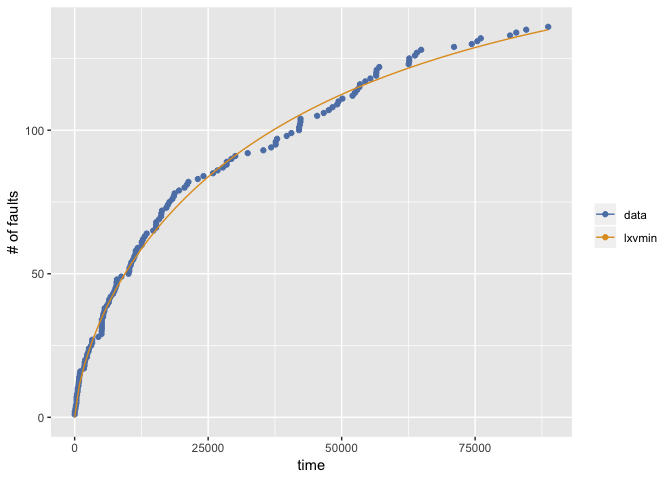
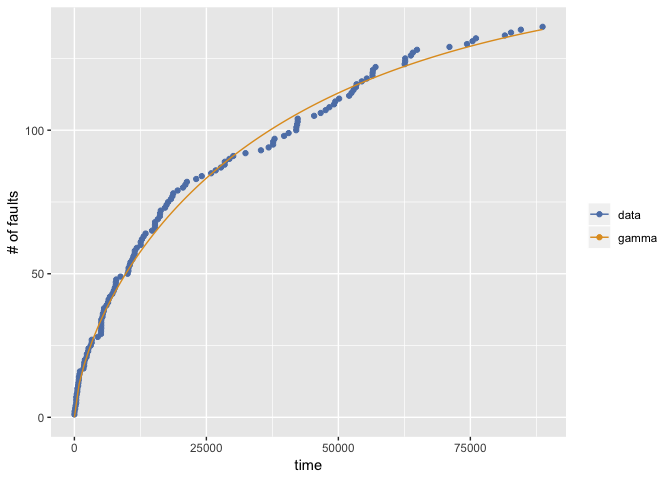
fix okamumu/gof4srm#1

diff --git a/src/em_lxvmin.cpp b/src/em_lxvmin.cpp
@@ -34,7 +34,7 @@ List em_lxvmin_estep(NumericVector params, List data) {
     }
     if (type[i] == 1) {
       nn += 1;
-      llf += Revd::dgumbel_min(log(t), loc, scale, true);
+      llf += Revd::dgumbel_min(log(t), loc, scale, true) - log(t);
     }
     prev_Fi = Fi;
   }

diff --git a/src/em_lxvmax.cpp b/src/em_lxvmax.cpp
@@ -34,7 +34,7 @@ List em_lxvmax_estep(NumericVector params, List data) {
     }
     if (type[i] == 1) {
       nn += 1;
-      llf += Revd::dgumbel(log(t), loc, scale, true);
+      llf += Revd::dgumbel(log(t), loc, scale, true) - log(t);
     }
     prev_Fi = Fi;
   }

diff --git a/src/em_llogis.cpp b/src/em_llogis.cpp
@@ -126,7 +126,7 @@ List em_llogis_estep(NumericVector params, List data) {
     }
     if (type[i] == 1) {
       nn += 1;
-      llf += R::dlogis(log(t), loc, scale, true);
+      llf += R::dlogis(log(t), loc, scale, true) - log(t);
     }
     prev_Fi = Fi;
   }

diff --git a/README.md b/README.md
@@ -115,11 +115,11 @@ sys1
 (result <- fit.srm.nhpp(time=sys1[sys1>=0], te=-sys1[sys1<0]))
 #> Warning in emfit(srm, data, initialize = TRUE, maxiter = con$maxiter,
 #> reltol = con$reltol, : Did not converge to MLE by max iteration.
-#> Model name: lxvmin
-#>    omega    loclog  scalelog  
-#>  165.955   -10.640     1.453  
-#> Maximum LLF: 299.439 
-#> AIC: -592.8779 
+#> Model name: gamma
+#>     omega      shape       rate  
+#> 1.545e+02  6.357e-01  1.618e-05  
+#> Maximum LLF: -967.1074 
+#> AIC: 1940.215 
 #> Convergence: TRUE
 
 ### Draw the graph

diff --git a/NEWS.md b/NEWS.md
@@ -1,3 +1,7 @@
+# Rsrat 1.5.5
+
+* Bug fix: The maximum llf of llogis, lxvmax, lxvmin was not correct in the case of time data.
+
 # Rsrat 1.5.4
 
 * export faultdata.nhpp 
